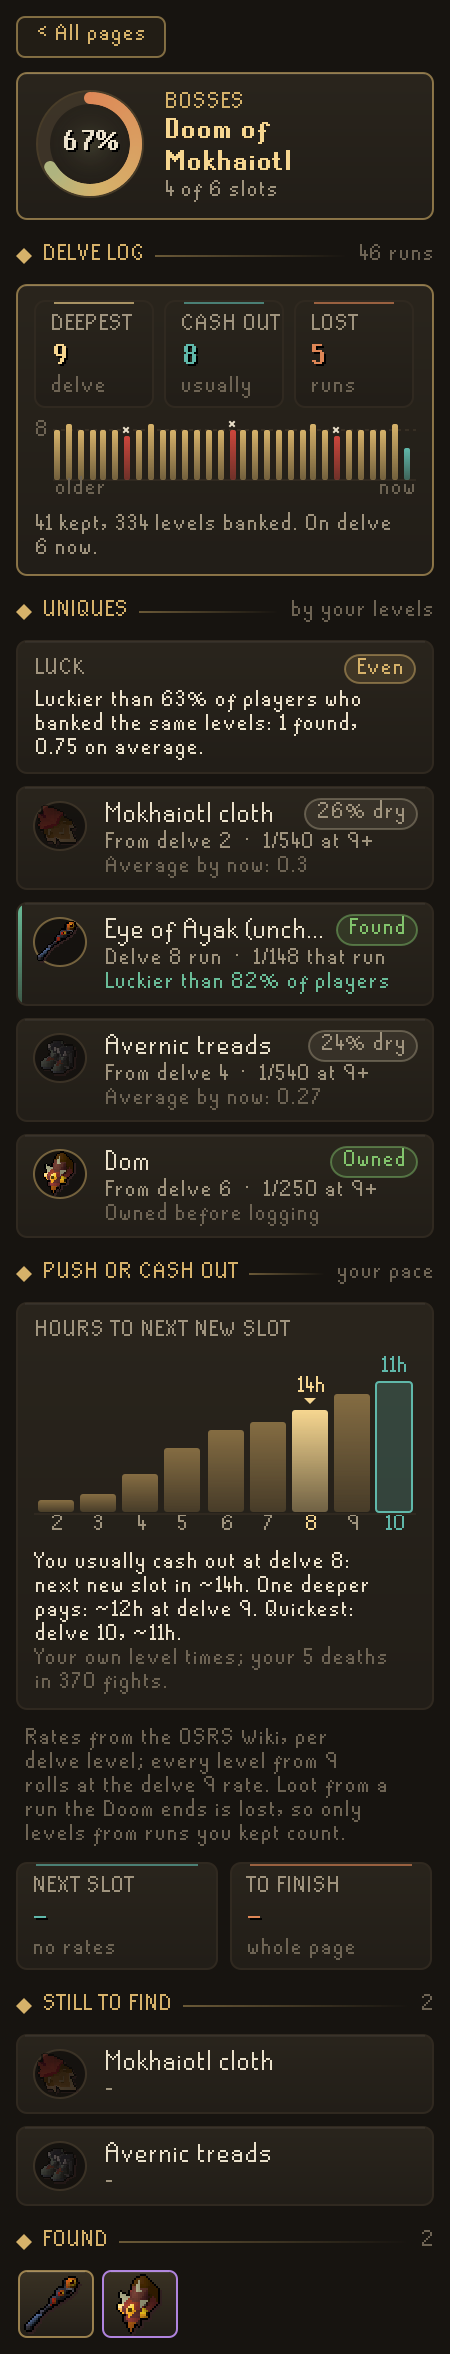
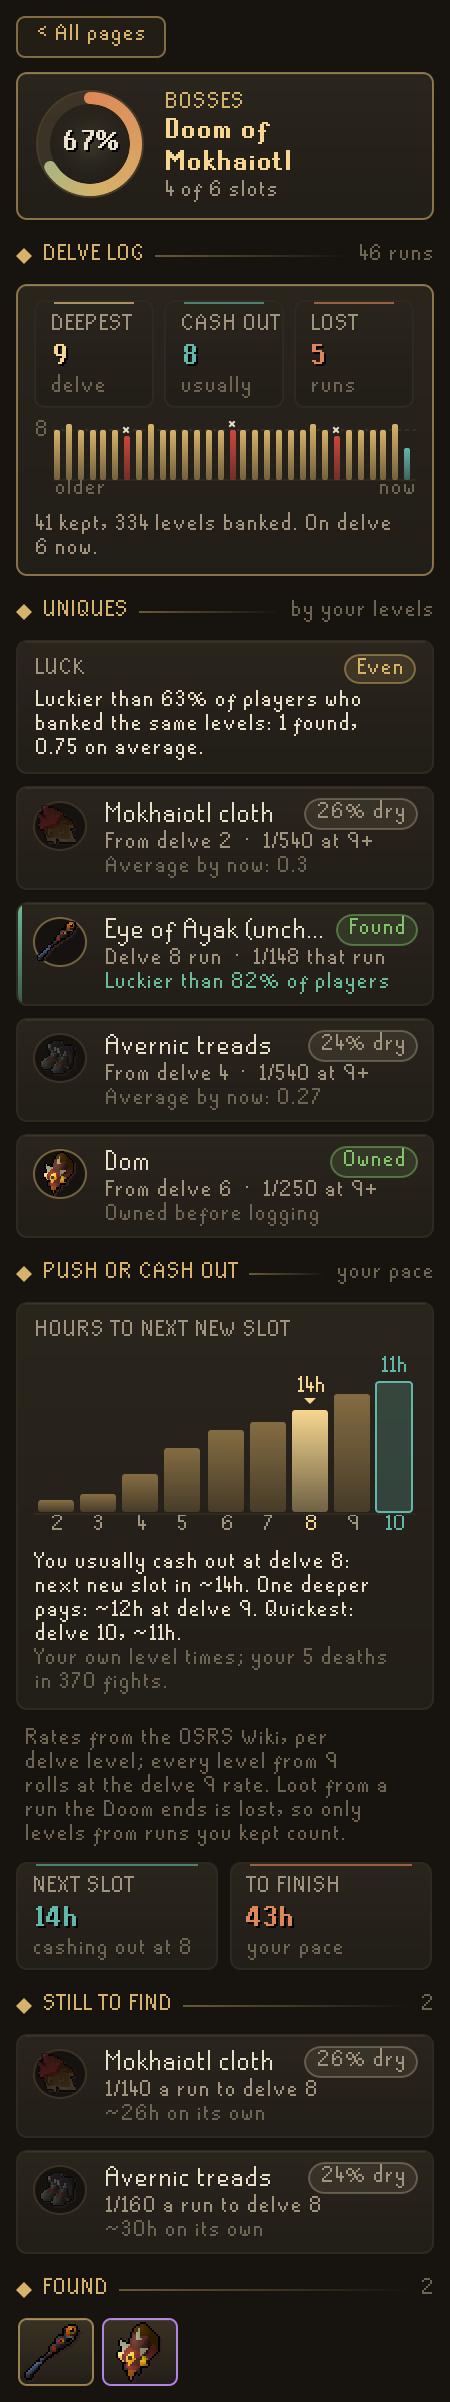
Doom page: next slot, to finish and missing uniques read from the delve log
Once the delve log has runs, the Doom of Mokhaiotl page's Next slot and To finish tiles use the delve
maths at the depth you usually cash out at (the next slot matches the comparison chart; to finish races
every missing unique's wait in runs, counting deaths, times your hours a run). Still to find rows show
each missing unique's chance a run to that depth, how dry your banked levels make you and its own wait.
With no runs logged, the page shows what it did before.

diff --git a/src/main/java/com/codex/loginsight/ui/PageView.java b/src/main/java/com/codex/loginsight/ui/PageView.java
@@ -43,6 +43,17 @@ final class PageView
 	static StackPanel build(Report.PageReport page, ItemIcons icons, Runnable back, IntPredicate wanted, IntConsumer onWant,
 		boolean full)
 	{
+		return build(page, icons, back, wanted, onWant, full, null);
+	}
+
+	/**
+	 * @param delve the Doom of Mokhaiotl's delve log, for its own page: once it has runs, the waits and the missing
+	 *              uniques are read from it at the depth you cash out at, not from typical rates
+	 */
+	static StackPanel build(Report.PageReport page, ItemIcons icons, Runnable back, IntPredicate wanted, IntConsumer onWant,
+		boolean full, com.codex.loginsight.core.DelveReport delve)
+	{
+		boolean delved = delve != null && !delve.isEmpty();
 		StackPanel stack = new StackPanel(6, 8);
 		JPanel top = new JPanel(new FlowLayout(FlowLayout.LEFT, 0, 0));
 		top.setOpaque(false);
@@ -91,7 +102,19 @@ final class PageView
 			stack.add(drops(page.getDrops(), page.getDrops().getSlots() == 1 ? "this slot" : "these " + page.getDrops().getSlots() + " slots"));
 		}
 
-		if (!page.isComplete())
+		if (!page.isComplete() && delved)
+		{
+			int depth = delve.readDepth();
+			com.codex.loginsight.core.DelveReport.Depth at = delve.depth(depth);
+			JPanel tiles = new JPanel(new GridLayout(1, 2, 6, 6));
+			tiles.setOpaque(false);
+			tiles.add(new StatTile(Format.hours(at == null ? Double.POSITIVE_INFINITY : at.getHoursToNext()), "Next slot",
+				"cashing out at " + depth, Theme.TEAL));
+			tiles.add(new StatTile(Format.hours(delve.hoursToFinish(depth)), "To finish",
+				delve.isOwnPace() ? "your pace" : "typical pace", Theme.EMBER));
+			stack.add(tiles);
+		}
+		else if (!page.isComplete())
 		{
 			JPanel tiles = new JPanel(new GridLayout(1, 2, 6, 6));
 			tiles.setOpaque(false);
@@ -120,7 +143,9 @@ final class PageView
 			for (Report.ItemReport item : missing)
 			{
 				boolean isWanted = wanted.test(item.getItemId());
-				Card row = missingRow(item, icons, false, page.getNextSource(), isWanted);
+				Card row = delved && delve.unique(item.getItemId()) != null
+					? delveRow(item, delve, icons, isWanted)
+					: missingRow(item, icons, false, page.getNextSource(), isWanted);
 				if (isWanted)
 				{
 					row.setToolTipText("<html>On your wanted list. Click to take it off.<br>" + stripHtml(row.getToolTipText()) + "</html>");
@@ -198,6 +223,36 @@ final class PageView
 	private static String stripHtml(String tip)
 	{
 		return tip == null ? "" : tip.replace("<html>", "").replace("</html>", "");
+	}
+
+	/**
+	 * A missing Doom unique read from the delve log: its chance a run to the depth you cash out at, how dry the levels you
+	 * banked make you, and its own wait at your pace.
+	 */
+	static Card delveRow(Report.ItemReport item, com.codex.loginsight.core.DelveReport delve, ItemIcons icons, boolean wanted)
+	{
+		int depth = delve.readDepth();
+		com.codex.loginsight.core.DelveReport.Unique unique = delve.unique(item.getItemId());
+		int u = com.codex.loginsight.core.Delve.index(item.getItemId());
+		double perRun = com.codex.loginsight.core.Delve.runChance(u, depth);
+		String detail = perRun > 0 ? Format.chance(perRun) + " a run to delve " + depth
+			: "Drops from delve " + unique.getFirstLevel();
+		double hours = delve.hoursFor(item.getItemId(), depth);
+		String where = Double.isFinite(hours) ? Format.about(hours) + " on its own" : null;
+		if (wanted)
+		{
+			where = "Wanted" + (where == null ? "" : "  ·  " + where);
+		}
+		double waiting = 1 - unique.getByNow();
+		Pill dry = delve.isOwnedKnown() && delve.getBankedLevels() > 0 ? new Pill(Format.dry(waiting), Theme.dry(waiting)) : null;
+		Card card = Rows.line(new IconBadge(item.getItemId(), icons, false), item.getName(), detail, where,
+			wanted ? Theme.GOLD : Theme.TEXT_FAINT, dry, wanted ? Theme.GOLD : dry != null && waiting < 0.2 ? Theme.dry(waiting) : null);
+		if (wanted)
+		{
+			card.highlighted(true);
+		}
+		card.setToolTipText(DelveView.tooltip(unique, delve));
+		return card;
 	}
 
 	/** Missing slots with a known dry chance first, driest at the top. */

diff --git a/src/main/java/com/codex/loginsight/core/DelveReport.java b/src/main/java/com/codex/loginsight/core/DelveReport.java
@@ -153,6 +153,76 @@ public final class DelveReport
 		this.recent = recent;
 	}
 
+	/** The unique with this item id, or null. */
+	public Unique unique(int itemId)
+	{
+		for (Unique u : uniques)
+		{
+			if (u.itemId == itemId)
+			{
+				return u;
+			}
+		}
+		return null;
+	}
+
+	/** The depth Log Insight reads the page at: the one you usually cash out at, else delve 8. */
+	public int readDepth()
+	{
+		return usual >= 2 ? usual : 8;
+	}
+
+	/**
+	 * Average hours until every unique still missing is owned, cashing out at this depth every run: each one's wait in
+	 * runs (one over its chance a run, counting the runs lost to deaths) raced against the others, times the hours a run
+	 * takes. Zero when nothing is missing; infinity when a missing one cannot drop that shallow.
+	 */
+	public double hoursToFinish(int depth)
+	{
+		Depth d = depth(depth);
+		if (d == null)
+		{
+			return Double.POSITIVE_INFINITY;
+		}
+		List<Double> runs = new ArrayList<>();
+		for (int u = 0; u < uniques.size(); u++)
+		{
+			if (uniques.get(u).owned)
+			{
+				continue;
+			}
+			double chance = Delve.runChance(u, depth) * d.reach;
+			if (!(chance > 0))
+			{
+				return Double.POSITIVE_INFINITY;
+			}
+			runs.add(1 / chance);
+		}
+		if (runs.isEmpty())
+		{
+			return 0;
+		}
+		double[] means = new double[runs.size()];
+		for (int i = 0; i < means.length; i++)
+		{
+			means[i] = runs.get(i);
+		}
+		return Odds.attemptsToAll(means, 0) * d.hoursPerRun;
+	}
+
+	/** Average hours until this one unique, cashing out at this depth every run, or infinity. */
+	public double hoursFor(int itemId, int depth)
+	{
+		Depth d = depth(depth);
+		int u = Delve.index(itemId);
+		if (d == null || u < 0)
+		{
+			return Double.POSITIVE_INFINITY;
+		}
+		double chance = Delve.runChance(u, depth) * d.reach;
+		return chance > 0 ? d.hoursPerRun / chance : Double.POSITIVE_INFINITY;
+	}
+
 	/** The depth row for a depth, or null. */
 	public Depth depth(int depth)
 	{

diff --git a/src/test/java/com/codex/loginsight/core/DelveTest.java b/src/test/java/com/codex/loginsight/core/DelveTest.java
@@ -338,6 +338,38 @@ public class DelveTest
 	}
 
 	@Test
+	public void pageWaitsAreReadAtTheUsualDepth()
+	{
+		DelveLog log = new DelveLog().repair();
+		long t = 0;
+		for (int run = 0; run < 10; run++)
+		{
+			for (int level = 1; level <= 7; level++)
+			{
+				log.levelCleared(level, t += 60_000);
+			}
+			log.claimed(t += 1_000);
+		}
+		Set<Integer> owned = new HashSet<>(java.util.Arrays.asList(Delve.CLOTH, Delve.EYE, Delve.DOM));
+		DelveReport report = DelveReport.of(log, owned, true);
+		assertEquals(7, report.readDepth());
+		DelveReport.Depth seven = report.depth(7);
+		// One unique missing: the page's wait to finish is its own wait, and the next slot is the same wait.
+		double treads = report.hoursFor(Delve.TREADS, 7);
+		assertEquals(seven.getHoursPerRun() / Delve.runChance(TREADS, 7), treads, 1e-9);
+		assertEquals(treads, report.hoursToFinish(7), treads * 0.01);
+		assertEquals(treads, seven.getHoursToNext(), 1e-9);
+
+		// Two missing: finishing takes longer than either alone.
+		DelveReport two = DelveReport.of(log, new HashSet<>(Collections.singletonList(Delve.CLOTH)), true);
+		double finish = two.hoursToFinish(7);
+		assertTrue(finish > two.hoursFor(Delve.DOM, 7));
+		assertTrue(finish > two.hoursFor(Delve.TREADS, 7));
+		// A unique that cannot drop that shallow never finishes there.
+		assertEquals(Double.POSITIVE_INFINITY, two.hoursToFinish(5), 0);
+	}
+
+	@Test
 	public void chatAndWindowNameTheLevel()
 	{
 		assertEquals(4, DelveReader.levelMessage("Delve level: 4 duration: <col=ff0000>1:12.00</col>"));

diff --git a/src/main/java/com/codex/loginsight/ui/LogInsightPanel.java b/src/main/java/com/codex/loginsight/ui/LogInsightPanel.java
@@ -445,7 +445,8 @@ public class LogInsightPanel extends PluginPanel
 			{
 				openPage = null;
 				rebuildFolios();
-			}, report::isWanted, onWant, report.getWanted().size() >= com.codex.loginsight.core.Progress.MAX_WANTED);
+			}, report::isWanted, onWant, report.getWanted().size() >= com.codex.loginsight.core.Progress.MAX_WANTED,
+				DelveView.isDelvePage(page.getName()) ? delve : null);
 			addDelve(view, page.getName());
 			replace(folios, view);
 		}
